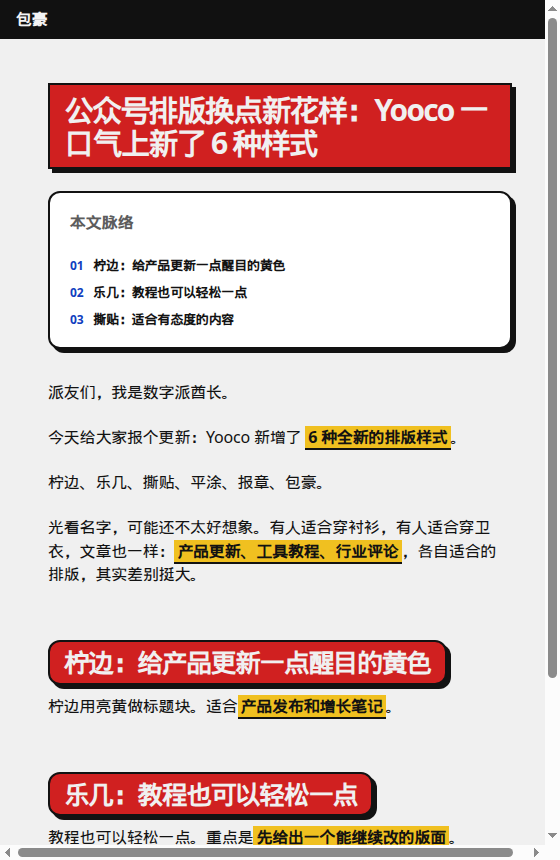
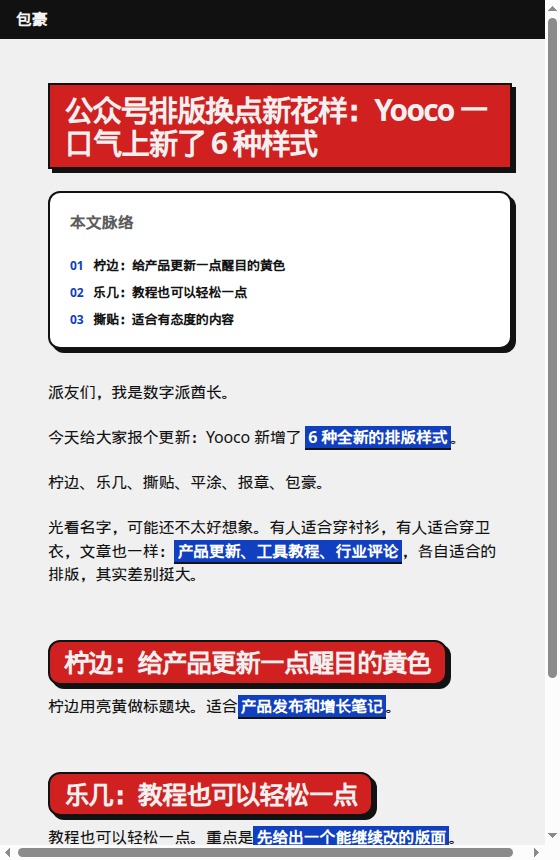
fix: 包豪重点底改成蓝色
包豪重点从直角黄底改成主题蓝 #1040C0、白字。直角和细黑边还在。其它主题没动。

diff --git a/public/app.js b/public/app.js
@@ -2259,8 +2259,9 @@ function buildCopyHtml() {
   const quoteTitleStyle = cardTitleStyle(cardKind, state.quoteTitleSize);
   const contentCardTitleStyle = cardTitleStyle(cardKind, state.cardTitleSize);
   const titleStyle = sixThemeTitleInline(`margin:0 0 18px;color:${titleColor};font-size:${state.titleSize}px;line-height:${state.headingLineHeight};font-weight:${state.headingWeight};letter-spacing:${headingLetterSpacingCss()};text-align:left;`);
+  const hardEdgeImageFill = state.theme === "bauhaus" ? "#F0C020" : state.highlightColor;
   const imageBoxStyle = isHardEdgeTheme(state.theme)
-    ? `margin:22px 0 26px;padding:48px 12px;text-align:center;border:2px solid ${state.borderColor};border-radius:${state.imageRadius}px;background-color:${state.highlightColor};box-shadow:4px 4px 0 ${state.borderColor};color:${titleColor};font-size:11px;font-weight:800;letter-spacing:.13em;`
+    ? `margin:22px 0 26px;padding:48px 12px;text-align:center;border:2px solid ${state.borderColor};border-radius:${state.imageRadius}px;background-color:${hardEdgeImageFill};box-shadow:4px 4px 0 ${state.borderColor};color:${titleColor};font-size:11px;font-weight:800;letter-spacing:.13em;`
     : isDeepNight
     ? `margin:22px 0 26px;padding:48px 12px;text-align:center;border:2px solid ${state.borderColor};border-radius:${state.imageRadius}px;background-color:${state.pageColor};color:${mutedColor};font-size:11px;font-weight:800;letter-spacing:.13em;`
     : `margin:22px 0 26px;padding:48px 12px;text-align:center;border-radius:${state.imageRadius}px;background-color:${state.accentColor};color:#ffffff;font-size:11px;font-weight:800;letter-spacing:.13em;`;
@@ -2293,7 +2294,7 @@ function buildCopyHtml() {
     if (t === "editorial") return `${base}padding:16px 18px;margin-bottom:22px;border-left:4px solid #1e1f23;border-radius:0 6px 6px 0;background-color:${state.cardColor};color:${titleColor};font-weight:650;`;
     if (t === "nocturne") return `${base}margin-bottom:22px;color:${state.accentColor};font-weight:700;`;
     if (isHardEdgeTheme(t)) {
-      const leadFill = t === "grunge" ? state.cardColor : t === "newsprint" ? state.quoteColor : state.highlightColor;
+      const leadFill = t === "grunge" ? state.cardColor : t === "newsprint" ? state.quoteColor : t === "bauhaus" ? "#F0C020" : state.highlightColor;
       return `${base}padding:16px 18px;margin-bottom:26px;border:2px solid ${state.borderColor};border-radius:${state.cardRadius}px;background-color:${leadFill};box-shadow:4px 4px 0 ${state.borderColor};color:${titleColor};font-weight:800;`;
     }
     return `${baseTextStyle}color:${state.accentColor};font-weight:750;`;

diff --git a/public/styles.css b/public/styles.css
@@ -1254,7 +1254,7 @@ input[type="range"]::-moz-range-thumb { width: 13px; height: 13px; border: 2px s
 .article-page[data-theme="citrus"] .lead,
 .article-page[data-theme="playful"] .lead { background: var(--highlight-color, #ffe566); }
 .article-page[data-theme="grunge"] .lead { background: var(--card-color, #ffffff); }
-.article-page[data-theme="bauhaus"] .lead { background: var(--highlight-color, #F0C020); color: var(--title-color, #121212); }
+.article-page[data-theme="bauhaus"] .lead { background: #F0C020; color: var(--title-color, #121212); }
 .article-page[data-theme="newsprint"] .lead { background: var(--quote-color, #f5f5f5); }
 .article-page[data-hard-edge="1"][data-heading-style="block"] .section-title {
   max-width: 100%; box-sizing: border-box; border: 2px solid var(--border-color, #111111); border-radius: var(--card-radius, 6px);
@@ -1328,6 +1328,7 @@ input[type="range"]::-moz-range-thumb { width: 13px; height: 13px; border: 2px s
   border-radius: var(--image-radius, 6px);
   background: var(--highlight-color, #ffe566); color: var(--title-color, #111111);
 }
+.article-page[data-theme="bauhaus"] .fake-image { background: #F0C020; color: var(--title-color, #121212); }
 
 /* ---------- 平涂 flat：软底色块，明确不要硬投影 ---------- */
 .article-page[data-theme="flat"] .content-card,
@@ -1389,7 +1390,7 @@ input[type="range"]::-moz-range-thumb { width: 13px; height: 13px; border: 2px s
   box-shadow: 4px 4px 0 var(--border-color, #121212);
 }
 
-/* 六套重点长得不一样：柠边是黄条，乐几是琥珀胶囊，撕贴是暗金底，平涂是蓝字，报章是红线，包豪是直角黄底加黑边 */
+/* 六套重点长得不一样：柠边是黄条，乐几是琥珀胶囊，撕贴是暗金底，平涂是蓝字，报章是红线，包豪是直角蓝底加黑边 */
 .article-page[data-theme="citrus"] .inline-highlight {
   padding: 0; border-radius: 0; background: transparent; box-shadow: none;
   color: var(--highlight-text-color, #1a1a1a); font-weight: 800; text-decoration: none;
@@ -1414,7 +1415,7 @@ input[type="range"]::-moz-range-thumb { width: 13px; height: 13px; border: 2px s
 }
 .article-page[data-theme="bauhaus"] .inline-highlight {
   padding: 0 3px; border-radius: 0; box-shadow: none; text-decoration: none;
-  background: var(--highlight-color, #f0c020); color: var(--highlight-text-color, #121212); font-weight: 800;
+  background: var(--highlight-color, #1040C0); color: var(--highlight-text-color, #ffffff); font-weight: 800;
   border-bottom: 2px solid var(--border-color, #121212);
 }
 

diff --git a/public/studio.html b/public/studio.html
@@ -13,7 +13,7 @@
     <link rel="stylesheet" href="https://fonts.googleapis.com/css2?family=JetBrains+Mono:wght@400;500;600&family=Noto+Sans+SC:wght@400;500;700&family=Space+Grotesk:ital,wght@0,300;0,400;0,500;0,600;0,700;1,300;1,400;1,500&display=swap" />
     <link rel="stylesheet" href="./obsidian-lime.css?v=obsidian-lime-v1" />
     <link rel="stylesheet" href="./design-tokens.css?v=dimensional-v11" />
-    <link rel="stylesheet" href="./styles.css?v=theme-six-diff-v1" />
+    <link rel="stylesheet" href="./styles.css?v=theme-six-diff-v2" />
     <link rel="stylesheet" href="./studio-ui.css?v=theme-gem-v1" />
     <script>if (window.self !== window.top) document.documentElement.classList.add("studio-embedded");</script>
   </head>
@@ -418,9 +418,9 @@
     </div>
 
     <script src="./analytics.js?v=credits-tools-v1"></script>
-    <script src="./themes.js?v=theme-six-diff-v1"></script>
+    <script src="./themes.js?v=theme-six-diff-v2"></script>
     <script src="./typeset-polish.js?v=engine-trio-v1"></script>
     <script src="./samples/sample-try.js?v=sample-yooco-article-v1"></script>
-    <script src="./app.js?v=theme-six-diff-v1"></script>
+    <script src="./app.js?v=theme-six-diff-v2"></script>
   </body>
 </html>

diff --git a/public/themes.js b/public/themes.js
@@ -392,7 +392,7 @@ const THEMES = {
     },
   },
 
-  // 包豪：灰底 #F0F0F0。四原色都要用：红 #D02020 做标题块和卡片标题，蓝 #1040C0 做加粗（strong/b）和链接，黄 #F0C020 做引导段和高亮，黑 #121212 做正文、描边和硬投影。直角，不渐变，不纹理。
+  // 包豪：灰底 #F0F0F0。红 #D02020 做标题块和卡片标题，蓝 #1040C0 做加粗、链接和重点底（白字），黄 #F0C020 只做引导段，黑 #121212 做正文、描边和硬投影。直角，不渐变，不纹理。
   bauhaus: {
     label: "包豪",
     en: "BAUHAUS",
@@ -401,7 +401,7 @@ const THEMES = {
     params: {
       styleVariant: "standard",
       textColor: "#121212", accentColor: "#D02020",
-      highlightColor: "#F0C020", highlightTextColor: "#121212",
+      highlightColor: "#1040C0", highlightTextColor: "#FFFFFF",
       cardColor: "#FFFFFF", quoteColor: "#FFFFFF", cardTitleColor: "#D02020",
       pageColor: "#F0F0F0", linkColor: "#1040C0",
       codeBackground: "#FFFFFF", codeColor: "#121212", dividerColor: "#121212",

diff --git a/handoff-log.md b/handoff-log.md
@@ -2,7 +2,7 @@
 
 ## 当前接手摘要
 
-六套工作台主题拉开差别（2026-10-28，未合并、未部署）：柠边、乐几、撕贴、平涂、报章、包豪的大标题、重点、字号和段距分开了。重点以前看不见，是因为正文里没有 `==重点==` 时切换主题不会自己加；六套又都用同一种荧光笔底，报章的浅粉和纸色几乎一样。现在有记号就能看见六种不同重点。没记号的旧稿还是没有，要点一次优化。智能排版没动。截图在 `docs/previews/studio-theme-diff-sheet.png`。正式站要等合进 master。
+六套工作台主题拉开差别（2026-10-28，未合并、未部署）：柠边、乐几、撕贴、平涂、报章、包豪的大标题、重点、字号和段距分开了。包豪重点后来改成蓝底白字（#1040C0），直角和细黑边还在，引导段仍是黄。重点以前看不见，是因为正文里没有 `==重点==` 时切换主题不会自己加；六套又都用同一种荧光笔底，报章的浅粉和纸色几乎一样。现在有记号就能看见六种不同重点。没记号的旧稿还是没有，要点一次优化。智能排版没动。截图在 `docs/previews/studio-theme-diff-sheet.png`。正式站要等合进 master。
 
 答案页分支已接到含常见问题定稿的 master（2026-10-26，PR #68，未合并）：FAQ #67 已在 master。交接日志里答案页和常见问题两条都留着。`/gongzhonghao-paiban` 仍是 #68 定稿，没有退回。还没合并。
 
@@ -166,7 +166,7 @@ Logo（2026-09-23，本地待部署）：折页 Y 图形与 Georgia 书刊字标
 ### 2026-10-28 六套主题标题、重点、间距拉开
 
 - 想做什么：工作台里柠边、乐几、撕贴、平涂、报章、包豪排出来太像，而且看不见重点。先查原因再改。不动智能排版。只开 PR，不合并。
-- 做成了什么：六套大标题、重点、正文字号和段距分开。重点分别是黄条、琥珀胶囊、暗金底、蓝字、红线和直角黄底。整理提示词要求这六套必须标出重点。报章和平涂的配方也补上了重点。
+- 做成了什么：六套大标题、重点、正文字号和段距分开。重点分别是黄条、琥珀胶囊、暗金底、蓝字、红线和包豪直角蓝底（#1040C0，白字，细黑边还在）。整理提示词要求这六套必须标出重点。报章和平涂的配方也补上了重点。
 - 改了哪些文件：`public/themes.js`、`public/styles.css`、`public/app.js`、`public/studio.html`、`lib/deepseek-normalizer.js`、`docs/previews/studio-theme-diff-sheet.png` 及六张分图、`handoff-log.md`、`handoff-archive.md`。
 - 如何验证：无头 Chrome 用同一篇带 `==重点==` 的长文切六套。每套都有 5 个重点，复制稿里的内联样式和预览一致。去掉 `==` 后再切，重点是 0。截图在 `docs/previews/`。没有调用优化，没有合并。
 - 待办/风险：原文里没有重点记号时，只换主题仍然不会凭空出现重点，要点一次优化。公众号后台还没真贴。合进 master 才会上正式站。
